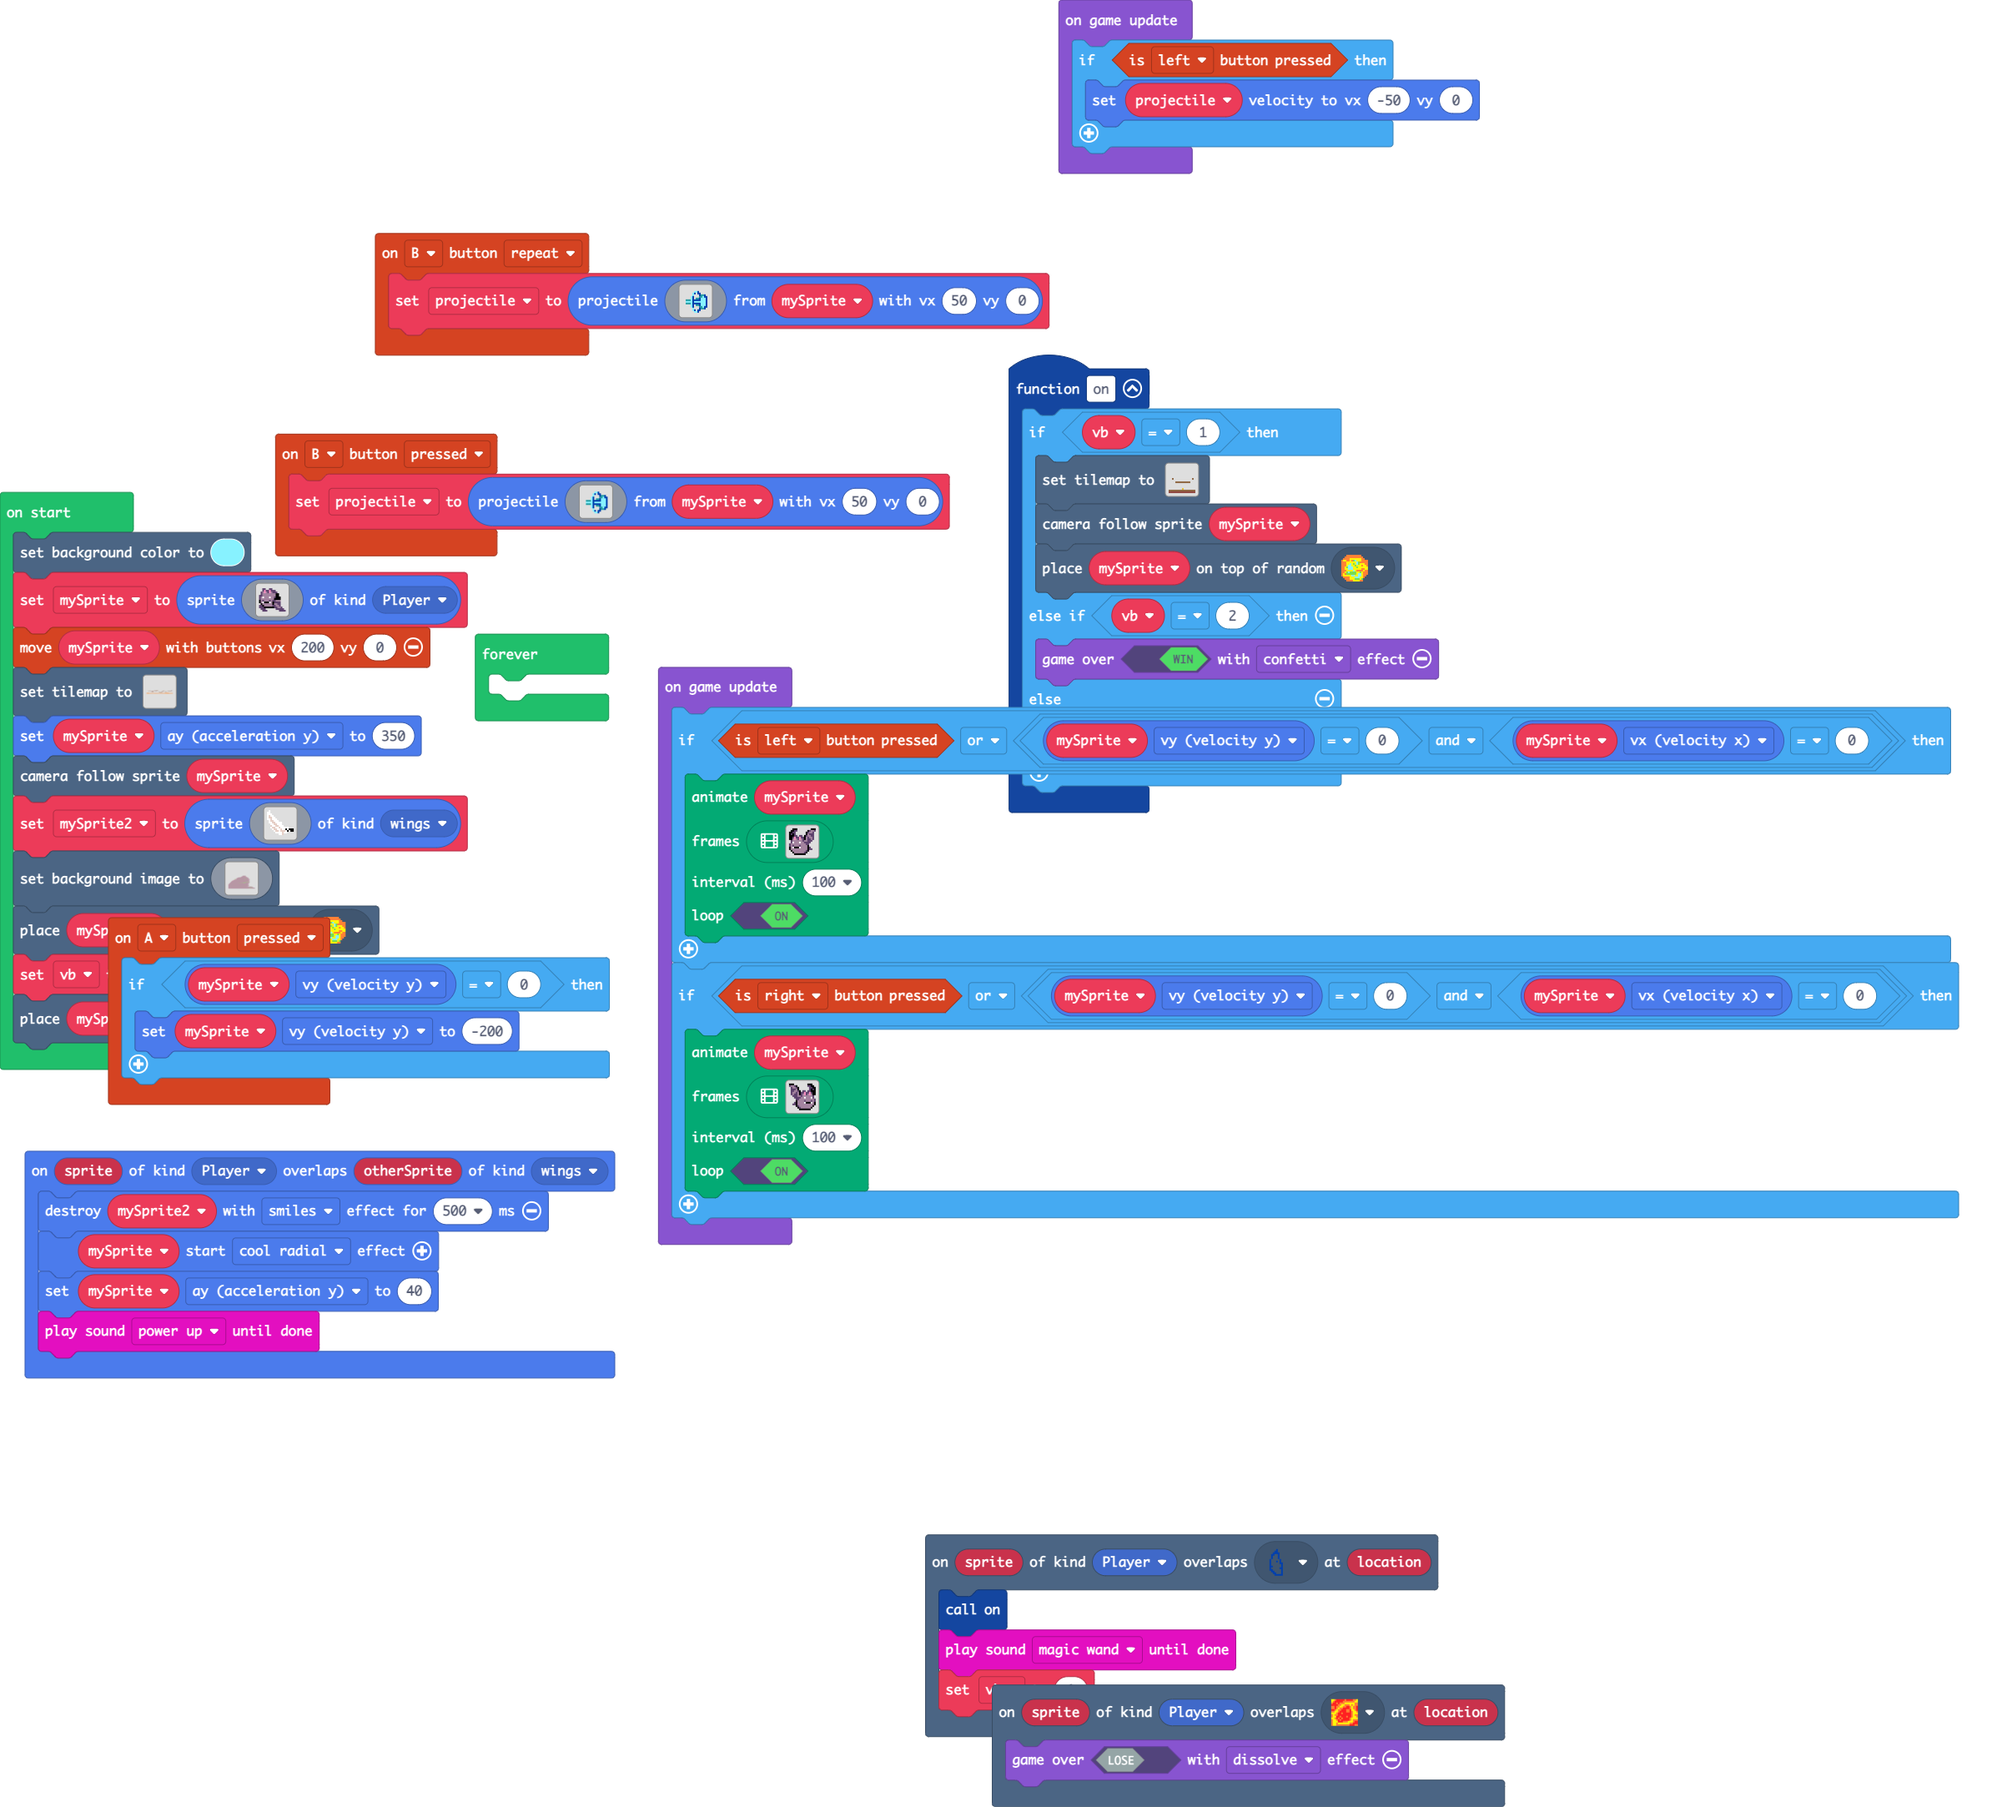
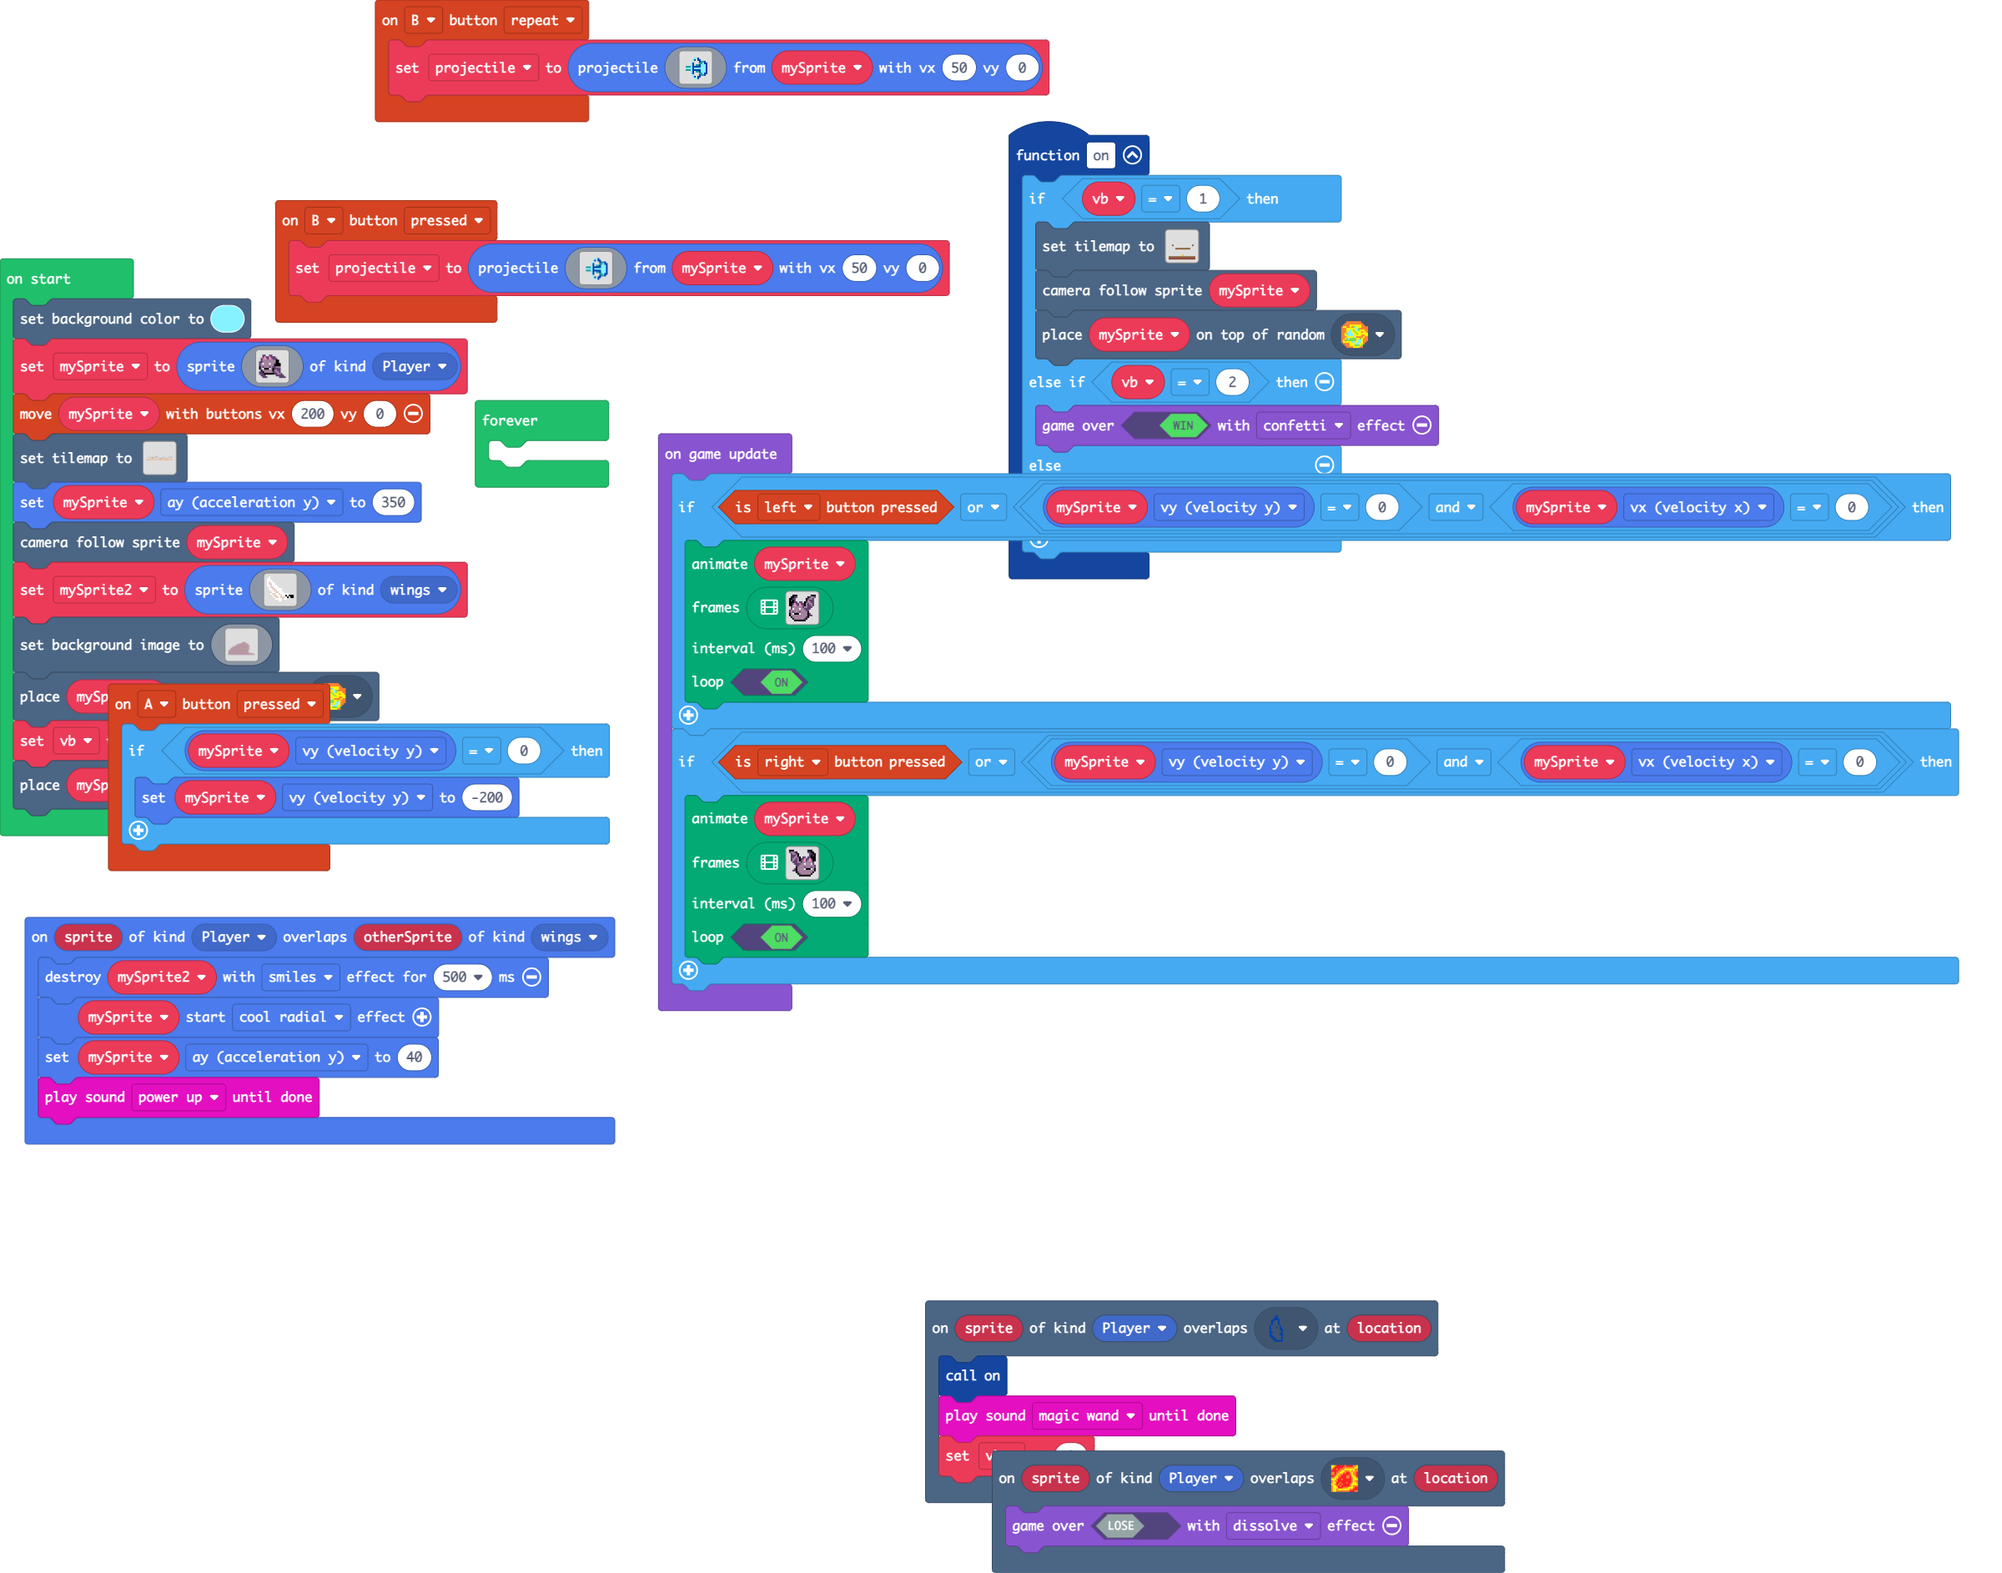
Update main.blocks, main.ts

diff --git a/main.ts b/main.ts
@@ -225,11 +225,6 @@ tiles.placeOnRandomTile(mySprite, assets.tile`myTile7`)
 vb = 0
 tiles.placeOnRandomTile(mySprite2, assets.tile`myTile9`)
 game.onUpdate(function () {
-    if (controller.left.isPressed()) {
-        projectile.setVelocity(-50, 0)
-    }
-})
-game.onUpdate(function () {
     if (controller.left.isPressed() || mySprite.vy == 0 && mySprite.vx == 0) {
         animation.runImageAnimation(
         mySprite,
